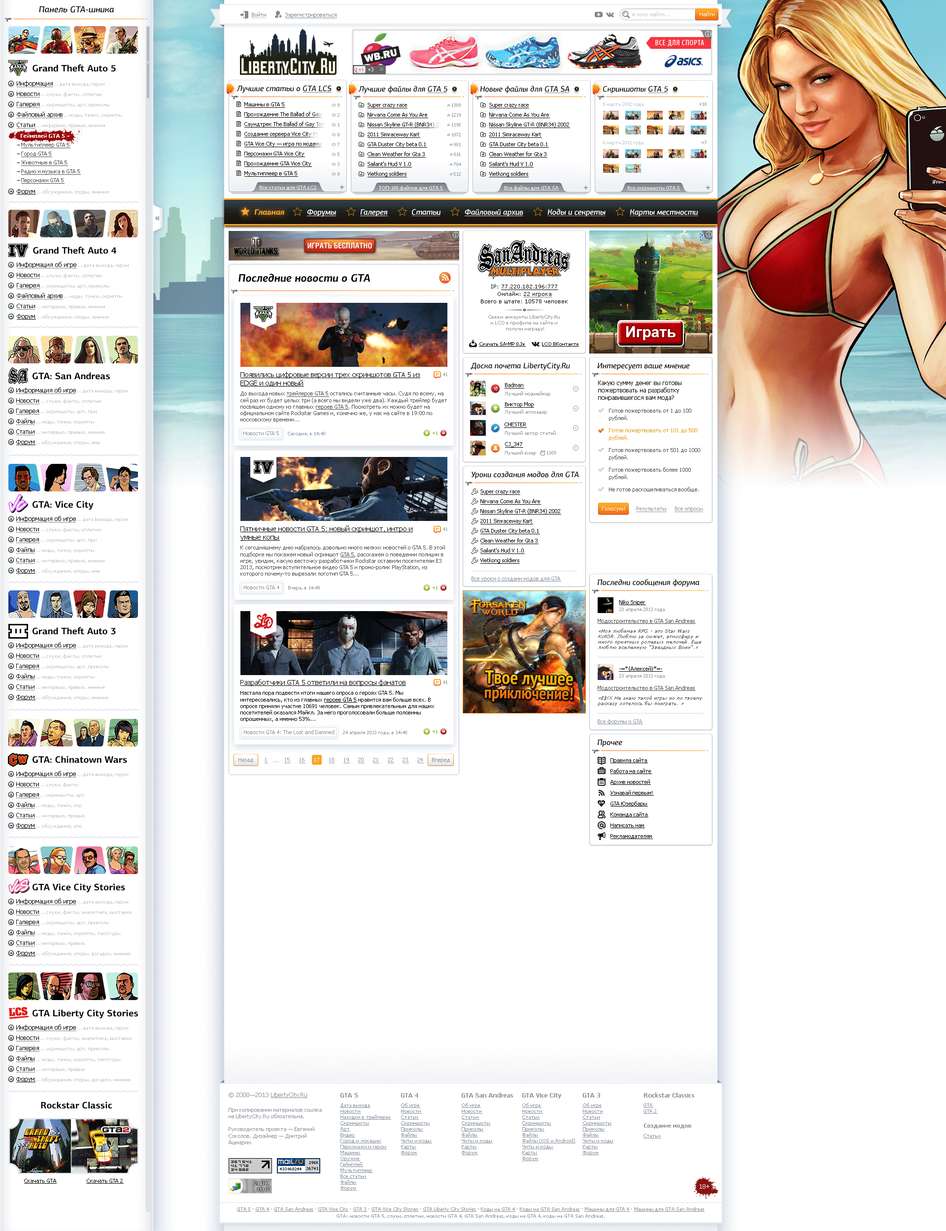
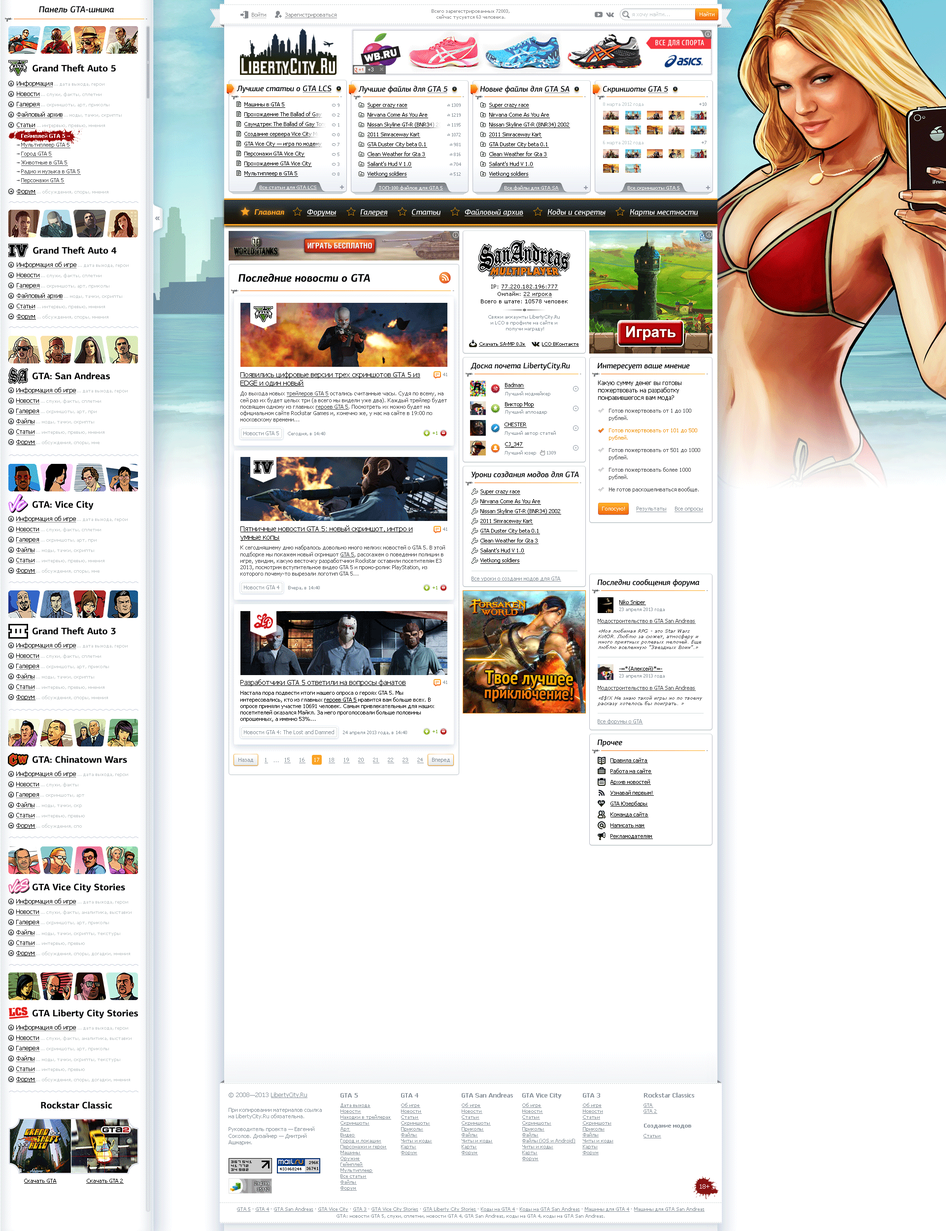
updated top bar

diff --git a/css.css b/css.css
@@ -18,14 +18,28 @@ body {
 	font: 12px Tahoma, sans-serif;
 	}
 
+
 /*helpers*/
+
+a {
+	text-decoration: none;
+	}
+
+a span {
+	border-bottom: solid 1px;
+	}
+
+	a:hover span {
+		border-bottom: none;	
+		}
+
 
 .pseudo-link {
 	border-bottom: dotted 1px #82878d;
 	cursor: pointer;
 	}
 
-	.pseudo-link:hover {
+	a:hover .pseudo-link:hover {
 		border: none;	
 		}
 
@@ -49,7 +63,7 @@ body {
 
 	.layout-inner {
 		padding-top: 8px;
-		margin: 0 29px;
+		margin: 0 30px 0 29px;
 		background: #fff;
 		-webkit-box-shadow: 0 0 51px 0 rgba(101, 127, 163, 0.64);
 		-moz-box-shadow: 0 0 51px 0 rgba(101, 127, 163, 0.64);
@@ -102,7 +116,7 @@ body {
 
 	.auth-bar .login {
 		float: left;
-		margin-left: 35px;
+		margin-left: 33px;
 		font-size: 11px;
 		}
 
@@ -114,7 +128,7 @@ body {
 	}
 
 	.login .link-enter {
-		margin-right: 15px;
+		margin-right: 13px;
 		}
 
 	.login a {
@@ -137,7 +151,7 @@ body {
 	}
 
 .social {
-	margin: 0 11px 0 0;
+	margin: 0 13px 0 0;
 	}
 
 
@@ -157,12 +171,12 @@ body {
 
 	.search input[type="text"]{
 		width: 154px;
-		background: url('i/ico-search.png') 6px 50% no-repeat;
-		padding: 5px 0 4px 25px;
+		background: url('i/ico-search.png') 5px 50% no-repeat;
+		padding: 5px 0 3px 25px;
 		border-radius: 15px 0 0 15px;
 		border: solid 1px #c0c3c6;
 		font-size: 11px;
-		margin: 0 -6px 0 0;
+		margin: 0 -5px 0 0;
 		-webkit-box-shadow: inset 0 3px 5px 0 #eef0f3;
 		-moz-box-shadow: inset 0 3px 5px 0 #eef0f3;
 		box-shadow: inset 0 3px 5px 0 #eef0f3;
@@ -177,7 +191,8 @@ body {
 	.auth-bar .statistics {
 		text-align: center;
 		font-size: 10px;
-		line-height: 38px;
+		line-height: 34px;
+		margin: 0 252px 0 228px;
 		}
 
 		.auth-bar .statistics span {
@@ -292,16 +307,16 @@ body {
 .btn {
 	border-radius: 3px;
 	display: inline-block;
-	line-height: 21px;
-	padding: 0 8px 0 8px;
+	line-height: 22px;
+	padding: 0 6px 0 8px;
 	color: #fff;
 	text-decoration: none;
 	font-size: 11px;
 	}
 
 .search .btn {
-	/*position: relative;*/
-	/*top: -1px;*/
+	position: relative;
+	top: -1px;
 	}
 
 

diff --git a/index.html b/index.html
@@ -21,7 +21,7 @@
 						<div class="auth-bar__content">
 							<div class="login">
 								<a class="link-enter" href="#"><i class="ico ico-enter"></i><span class="pseudo-link">Войти</span></a>
-								<a class="link-registration" href="#"><i class="ico ico-registration"></i>Зарегистрироваться</a>
+								<a class="link-registration" href="#"><i class="ico ico-registration"></i><span>Зарегистрироваться</span></a>
 							</div>
 							<div class="search">
 								<form action="#">
